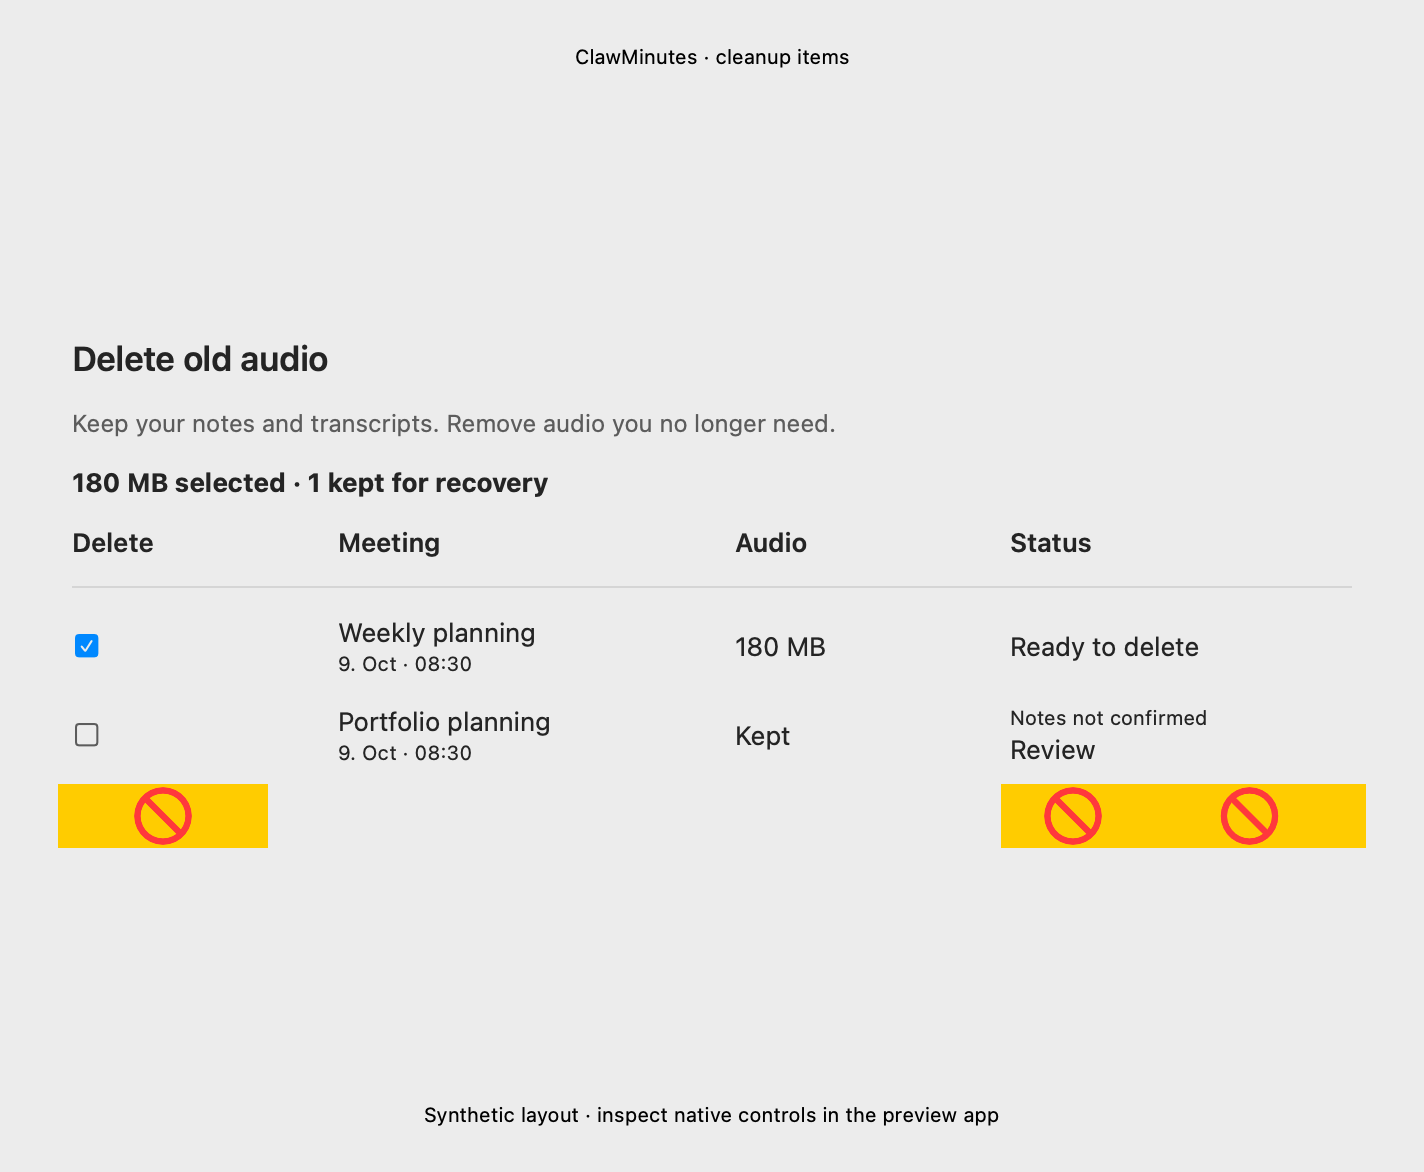
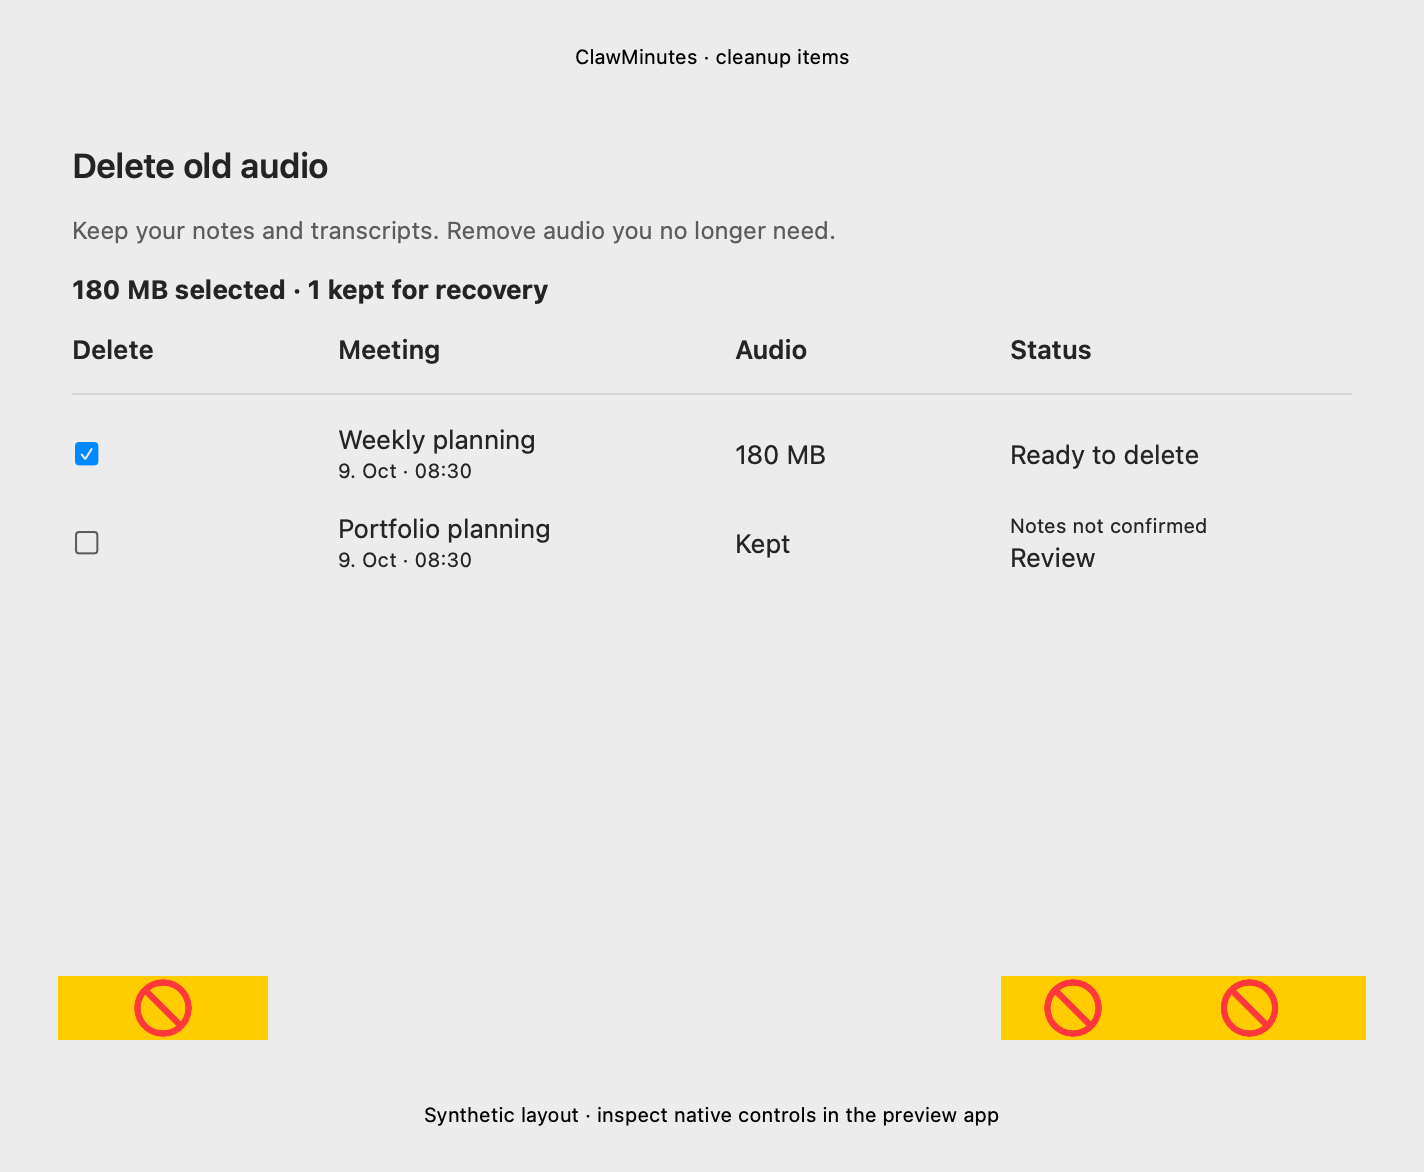
Correct cleanup alignment and login guidance after native UI review

diff --git a/native/Sources/quill/UI/HelperViews.swift b/native/Sources/quill/UI/HelperViews.swift
@@ -313,7 +313,12 @@ struct HelperSettings: View {
                                 Text("Ask once. Dismissing keeps recording off.").font(.caption).foregroundStyle(CMTheme.secondary)
                             }
                         }.accessibilityLabel("Detect Teams calls").accessibilityHint("Ask once. Dismissing keeps recording off.")
-                        Toggle("Launch at login", isOn: Binding(get: { controller.loginStatus.enabled == true }, set: controller.setLaunchAtLogin))
+                        Toggle(isOn: Binding(get: { controller.loginStatus.enabled == true }, set: controller.setLaunchAtLogin)) {
+                            VStack(alignment: .leading, spacing: 3) {
+                                Text("Launch at login")
+                                Text(controller.loginStatus.detail).font(.caption).foregroundStyle(CMTheme.secondary)
+                            }
+                        }.accessibilityLabel("Launch at login").accessibilityHint(controller.loginStatus.detail)
                             .disabled(controller.loginStatus.enabled == nil)
                         if let issue = controller.loginSettingError {
                             Text(issue).font(.caption).foregroundStyle(CMTheme.secondary)
@@ -321,12 +326,7 @@ struct HelperSettings: View {
                         if controller.loginStatus.enabled == nil || controller.loginSettingError != nil {
                             Button("Check login setting again", action: controller.refreshLoginSetting)
                         }
-                        HStack {
-                            Button("Setup checklist…", action: controller.showSetup)
-                            Button("Recording controls", action: controller.openMenu)
-                        }
-                    } footer: {
-                        Text(controller.loginStatus.detail).cmFormFootnote()
+                        Button("Setup checklist…", action: controller.showSetup)
                     }
                 case .recording:
                     Section {
@@ -447,6 +447,7 @@ struct HelperSettings: View {
                     }
                 case .advanced:
                     Section {
+                        Button("Recording controls", action: controller.openMenu)
                         Text("Speech model: " + controller.modelTitle).textSelection(.enabled)
                         Text("Recognition: " + (controller.displayedBackend == "parakeet" ? "this Mac" : "ElevenLabs cloud"))
                         Button("Open recording files and logs", action: controller.openRecordings)

diff --git a/native/Sources/quill/UI/DesignPreview.swift b/native/Sources/quill/UI/DesignPreview.swift
@@ -126,6 +126,7 @@ enum DesignPreview {
 private struct MatrixBrowser: View {
     @State private var surface = "Popover"
     @State private var systemPopover = false
+    @State private var cleanupSheet = false
     @State private var name = "call-same-cause"
     @State private var appearance = "dark"
     @State private var reduceMotion = false
@@ -162,7 +163,12 @@ private struct MatrixBrowser: View {
                             .environment(\.cmPreviewReduceMotion, reduceMotion)
                     }
                 Button("Settings window") { DesignPreview.controller(for: name).showSettings() }
+                Button("Cleanup sheet") { cleanupSheet = true }
             }
+        }
+        .sheet(isPresented: $cleanupSheet) {
+            CleanupPreview(hasItems: name == "cleanup-items", onClose: { cleanupSheet = false })
+                .frame(width: 680, height: name == "cleanup-items" ? 480 : 340)
         }
         .onChange(of: appearance, initial: true) { _, value in
             NSApp.appearance = NSAppearance(named: value.contains("dark") ? .darkAqua : .aqua)
@@ -200,11 +206,10 @@ private struct MatrixScene: View {
 
 private struct CleanupPreview: View {
     let hasItems: Bool
-    @Environment(\.cmReviewRendering) private var reviewRendering
-    @State private var selected = Set<String>()
-    init(hasItems: Bool) {
+    let onClose: () -> Void
+    init(hasItems: Bool, onClose: @escaping () -> Void = {}) {
         self.hasItems = hasItems
-        _selected = State(initialValue: hasItems ? ["/synthetic/Weekly planning"] : [])
+        self.onClose = onClose
     }
     private var previewRows: [AudioCleanup.Row] {
         // Display-only synthetic plan. Preview buttons never call deletion.
@@ -214,7 +219,7 @@ private struct CleanupPreview: View {
                 .init(meeting: DesignPreview.meeting("Portfolio planning", cause: .unconfirmed), plan: nil, issue: "Synthetic unconfirmed receipt")]
     }
     var body: some View {
-        AudioCleanupView(controller: DesignPreview.controller(for: "idle"), previewRows: hasItems ? previewRows : [])
+        AudioCleanupView(controller: DesignPreview.controller(for: "idle"), previewRows: hasItems ? previewRows : [], onClose: onClose)
             .frame(width: 680)
     }
 

diff --git a/native/Sources/quill/UI/AudioCleanupView.swift b/native/Sources/quill/UI/AudioCleanupView.swift
@@ -24,8 +24,8 @@ struct AudioCleanupView: View {
     }
     #if DEBUG
     private var fixtureRows: [AudioCleanup.Row]?
-    init(controller: MenuBarController, previewRows: [AudioCleanup.Row]) {
-        self.init(controller: controller, meetings: [])
+    init(controller: MenuBarController, previewRows: [AudioCleanup.Row], onClose: @escaping () -> Void = {}) {
+        self.init(controller: controller, meetings: [], onClose: onClose)
         fixtureRows = previewRows
         _rows = State(initialValue: previewRows)
         _selected = State(initialValue: AudioCleanup.defaultSelection(previewRows))
@@ -52,12 +52,14 @@ struct AudioCleanupView: View {
             }
             if rows.isEmpty && !reviewing {
                 ContentUnavailableView("No old audio to delete", systemImage: "externaldrive.badge.checkmark", description: Text("Your notes and transcripts are kept."))
+                    .frame(maxWidth: .infinity)
             } else {
                 CleanupTable(rows: rows, selected: $selected, completed: completed, failed: failed, deleting: deleting,
                              review: controller.showMeetingDetails)
             }
             if let reviewError { Text(reviewError).font(.callout).foregroundStyle(.primary) }
 
+            Spacer(minLength: 0)
             HStack {
                 if deleting { ProgressView().controlSize(.small); Text("Verifying and deleting…").font(.caption) }
                 if !deleting && !reviewing && !rows.isEmpty {
@@ -75,7 +77,7 @@ struct AudioCleanupView: View {
                 }
 
             }.controlSize(.regular)
-        }.padding(20).frame(minWidth: 650, minHeight: 480).helperPanel()
+        }.padding(20).frame(minWidth: 650, minHeight: rows.isEmpty && !reviewing ? 300 : 480, alignment: .topLeading).helperPanel()
             .alert("Delete \(ByteCountFormatter.string(fromByteCount: bytes, countStyle: .file)) of recording audio?", isPresented: $confirmationPresented) {
                 Button("Cancel", role: .cancel) {}
                 Button("Delete audio", role: .destructive, action: delete)

diff --git a/docs/liquid-glass-ui.md b/docs/liquid-glass-ui.md
@@ -28,10 +28,12 @@ native/.build/debug/ocmh design-preview export /tmp/clawminutes-ui-review
 python3 scripts/review-ui-matrix.py /tmp/clawminutes-ui-review
 ```
 
-The interactive preview offers Native popover and Settings window controls. It enters before runtime startup with a temporary application home and synthetic data. Its recording action only changes fixture state.
+The interactive preview offers Native popover, Settings window and Cleanup sheet controls. It enters before runtime startup with a temporary application home and synthetic data. Its recording action only changes fixture state.
 
 Export generates 48 layouts plus light/dark/reduced palette checks. Export-only stand-ins keep AppKit lists and button labels visible; they do not establish native glass appearance. Preview dates are frozen without affecting runtime dates. Private artifacts stay under evidence/ui-collaboration-2026-10-22. Only explicitly reviewed synthetic images enter the public review snapshot.
 
 The full native suite executed 537 tests with 12 opt-in skips and no failures during this pass. Native preview interaction demonstrated synthetic Command-R recording/stop, current meeting priority and Settings navigation. Installed acceptance, live capture, accessibility across operating systems and sustained Gateway performance remain separate requirements. No helper or Gateway installation, reload or restart occurred.
 
 The 0.2.18 helper candidate passed a release build and local signature verification. Its designated requirement matches the installed helper, and its ZIP passed integrity validation. It is locally signed and not notarized. Packaging staged the candidate without installing it. The Gateway manifest remains at 0.2.16 because this is a helper-only UI update.
+
+The final presentation pass top-aligns cleanup content, centers the empty state and associates the login explanation with its own toggle. Seventeen focused presentation tests passed after these corrections. Native fixture inspection confirmed Cancel dismisses the attached cleanup sheet and clearing the eligible selection disables Delete. Preview deletion remains disabled independently of the visible button state.

diff --git a/docs/ui-review-2026-10-22/README.md b/docs/ui-review-2026-10-22/README.md
@@ -2,7 +2,7 @@
 
 The before and after directories contain selected synthetic ImageRenderer layouts. They show spacing and text hierarchy. Their opaque export background and AppKit control substitutes do not establish native Liquid Glass appearance or live meeting behavior.
 
-The native/settings-dark.jpg file is a JPEG captured from the separate native preview window after correcting labels that clipped in the native form. It contains synthetic preferences. It is not an ImageRenderer export. No actual meeting, participant, transcript, credential or user file is included.
+The native directory contains JPEG captures of the real system popover, Settings window and attached cleanup sheets from the separate preview app. They contain synthetic preferences and meetings. They are not ImageRenderer exports. The indigo window/person capsule, where visible, is the macOS window-sharing indicator. No actual meeting, participant, transcript, credential or user file is included. Native captures include inactive-window appearances; they do not prove all active/inactive contrast states.
 
 The cleanup layouts now use the real AudioCleanupView with debug-only synthetic rows. Preview deletion is disabled before any file operation. Native table chrome is substituted only in image exports.
 

diff --git a/docs/macos-design-audit.md b/docs/macos-design-audit.md
@@ -21,3 +21,5 @@ ImageRenderer layouts substitute AppKit-backed controls and cannot prove glass r
 Remaining acceptance includes installed interaction, VoiceOver, macOS 15 fallback, system Reduce Transparency/Reduce Motion, busy-background contrast and active/inactive states. The existing supplied raster app icon is preserved; an Icon Composer release asset is separate release work. No installed helper or Gateway was replaced or restarted for this review.
 
 A second Claude Desktop pass reviewed the revised layouts and requested cause-specific recovery copy, a native recovery-action bezel, and cleanup previews of the real view. Those changes are included. Native Settings inspection then caught clipped form labels; the final native JPEG documents the correction. Claude's unread base64-image inference is not visual evidence and is excluded from acceptance.
+
+The final Claude pass identified cleanup alignment and ambiguous login-footer placement. Both were corrected. Native sheet captures now show the real cleanup table and controls, and the empty sheet. Selection and Cancel were exercised only against debug fixtures. Installed acceptance remains open.
